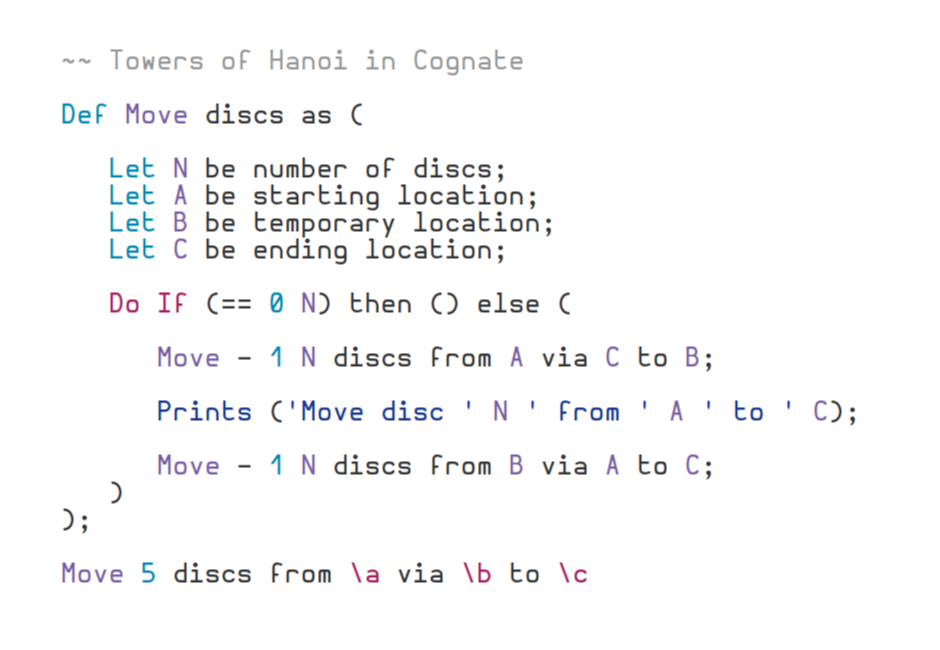
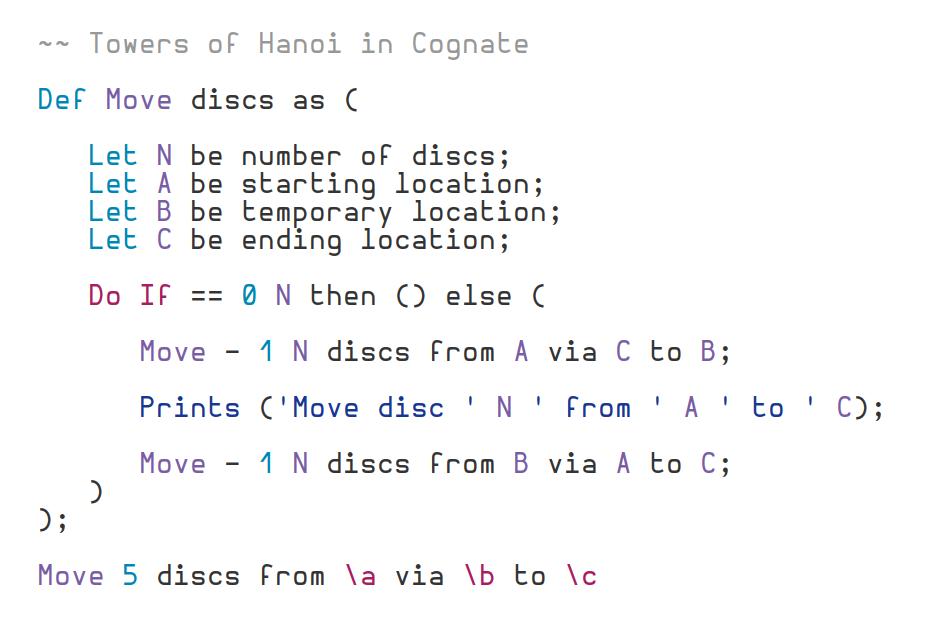
removed brackets from if statements

diff --git a/compiler/cognac.c b/compiler/cognac.c
@@ -292,28 +292,6 @@ void compile(ast* tree, reg_list* registers, decl_list* defs)
 		break;
 		case value:
 		{
-			if (tree->val_type == block && tree->next && tree->next->type == value && tree->next->val_type == block
-				&& tree->next->next && tree->next->next->type == value && tree->next->next->val_type == block
-				&& tree->next->next->next && tree->next->next->next->type == identifier
-				&& tree->next->next->next->next && tree->next->next->next->next->type == identifier)
-			{
-				decl_list* ifdef = lookup_word(tree->next->next->next->text, defs);
-				decl_list* dodef = lookup_word(tree->next->next->next->next->text, defs);
-				if (ifdef && ifdef->builtin && strcmp(ifdef->name, "if") == 0
-				 && dodef && dodef->builtin && strcmp(dodef->name, "do") == 0)
-				{
-					registers = assert_registers(0, 0, registers);
-					fputs("{", outfile);
-					compile(tree->next->next->data, NULL, predeclare(tree->next->next->data, defs));
-					fputs("}if(unbox_boolean(pop())){", outfile);
-					compile(tree->next->data, NULL, predeclare(tree->next->data, defs));
-					fputs("}else{", outfile);
-					compile(tree->data, NULL, predeclare(tree->next->next->data, defs));
-					fputs("}", outfile);
-					tree = tree->next->next->next->next;
-					break;
-				}
-			}
 			reg_list* return_register = add_register(tree->val_type, registers);
 			switch (tree->val_type)
 			{

diff --git a/compiler/builtins.c b/compiler/builtins.c
@@ -9,7 +9,7 @@
 {.name="EQ",  .type=func, .argc=2, .args={any, any},       .rets=true, .ret=boolean},
 {.name="NEQ", .type=func, .argc=2, .args={any, any},       .rets=true, .ret=boolean},
 {.name="match", .type=func, .argc=2, .args={any, any},     .rets=true, .ret=boolean},
-{.name="if",    .type=func, .argc=3, .args={block, any, any},.rets=true, .ret=any, .needs_stack=true},
+{.name="if",    .type=func, .argc=3, .args={boolean, any, any},.rets=true, .ret=any, .needs_stack=true},
 {.name="while", .type=func, .argc=2, .args={block, block}, .needs_stack=true},
 {.name="print", .type=func, .argc=1, .args={any}},
 {.name="put",   .type=func, .argc=1, .args={any}},

diff --git a/runtime/runtime.h b/runtime/runtime.h
@@ -141,7 +141,7 @@ void set_word_name(const char* restrict const);
 void set_line_num(int);
 
 // Builtin functions needed by compiled source file defined in functions.c
-ANY VAR(if)(BLOCK, ANY, ANY);
+ANY VAR(if)(BOOLEAN, ANY, ANY);
 void VAR(while)(BLOCK, BLOCK);
 void VAR(do)(BLOCK);
 void VAR(put)(ANY);

diff --git a/runtime/functions.c b/runtime/functions.c
@@ -9,13 +9,9 @@
 #include <pthread.h>
 #include <setjmp.h>
 
-ANY VAR(if)(BLOCK cond, ANY a, ANY b)
+ANY VAR(if)(BOOLEAN cond, ANY a, ANY b)
 {
-	cond();
-	if (unbox_boolean(pop()))
-		return a;
-	else
-		return b;
+	return cond ? a : b;
 }
 
 void VAR(while)(BLOCK cond, BLOCK body)

diff --git a/INTRODUCTION.md b/INTRODUCTION.md
@@ -175,28 +175,28 @@ Print == 1 2; ~~ Prints True if 2 is equal to 1, False otherwise
 Print /= 1 2; ~~ Prints True if 2 is not equal to 1, False otherwise
 ```
 
-`If` is in fact a function, it takes three arguments. The first is a block that returns a boolean (soon this will not have to be wrapped in a block), the second is a value to return if the block evaluates to `True`, the third is a value to return if the block evaluates to `False`. The above program will print the larger of the two variables `X` and `Y`.
+`If` is in fact a function, it takes three arguments. The first is a boolean, the second is a value to return if the boolean is `True`, the third is a value to return if the boolean is `False`. The below program will print the larger of the two variables `X` and `Y`.
 
 ```
 Let X be 4;
 Let Y be 9;
 
-Print If (< X Y) then X else Y;
+Print If < X Y then X else Y;
 ```
 
 We can also chain `If` statements together.
 
 ```
-Print If (== X Y) then 'X is equal to Y'
-      If (>  X Y) then 'Y is greater than X'
-      else        then 'X is greater than Y';
+Print If == X Y then 'X is equal to Y'
+      If >  X Y then 'Y is greater than X'
+      else      then 'X is greater than Y';
 ```
 
 We can then use blocks and `Do` to have conditional execution.
 
 ```
-Do If (== 2 3) then ( Print '2 is equal to 3')
-               else ( Print '2 is not equal to 3' );
+Do If == 2 3 then (Print '2 is equal to 3')
+             else (Print '2 is not equal to 3');
 ```
 
 ### Lists
